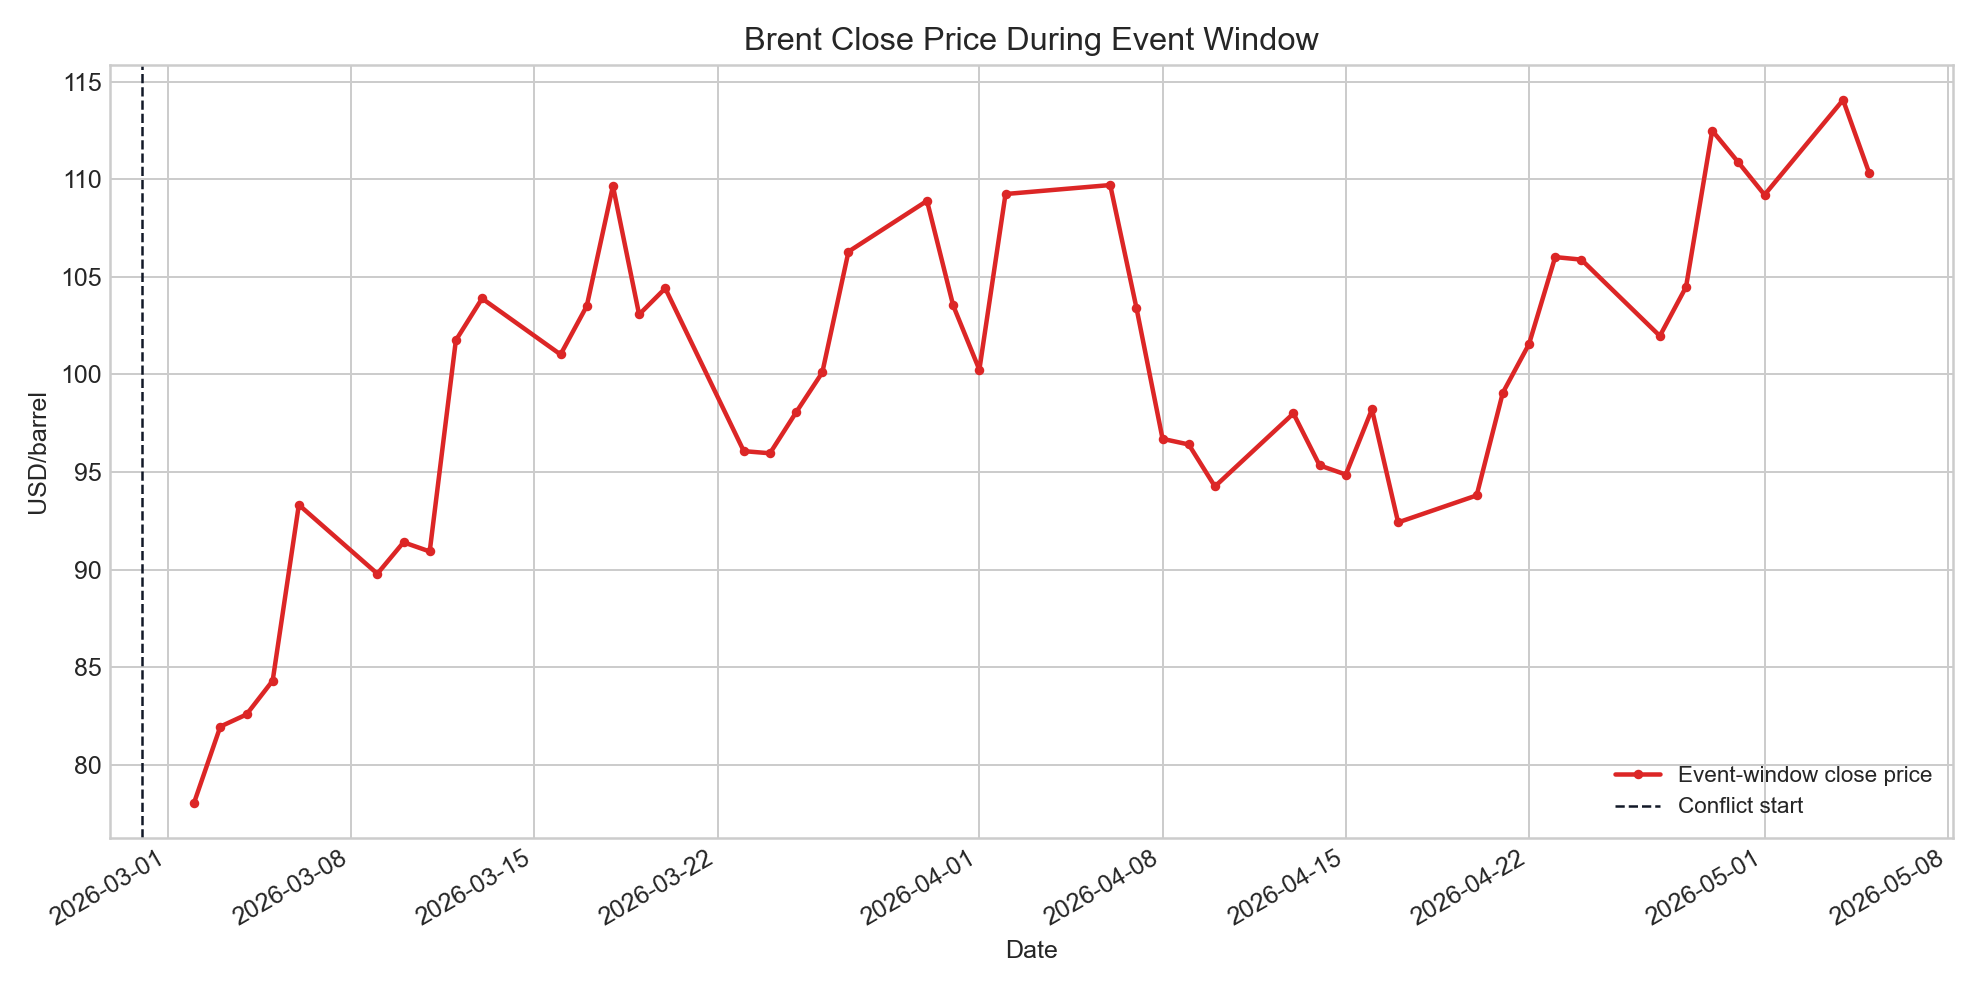
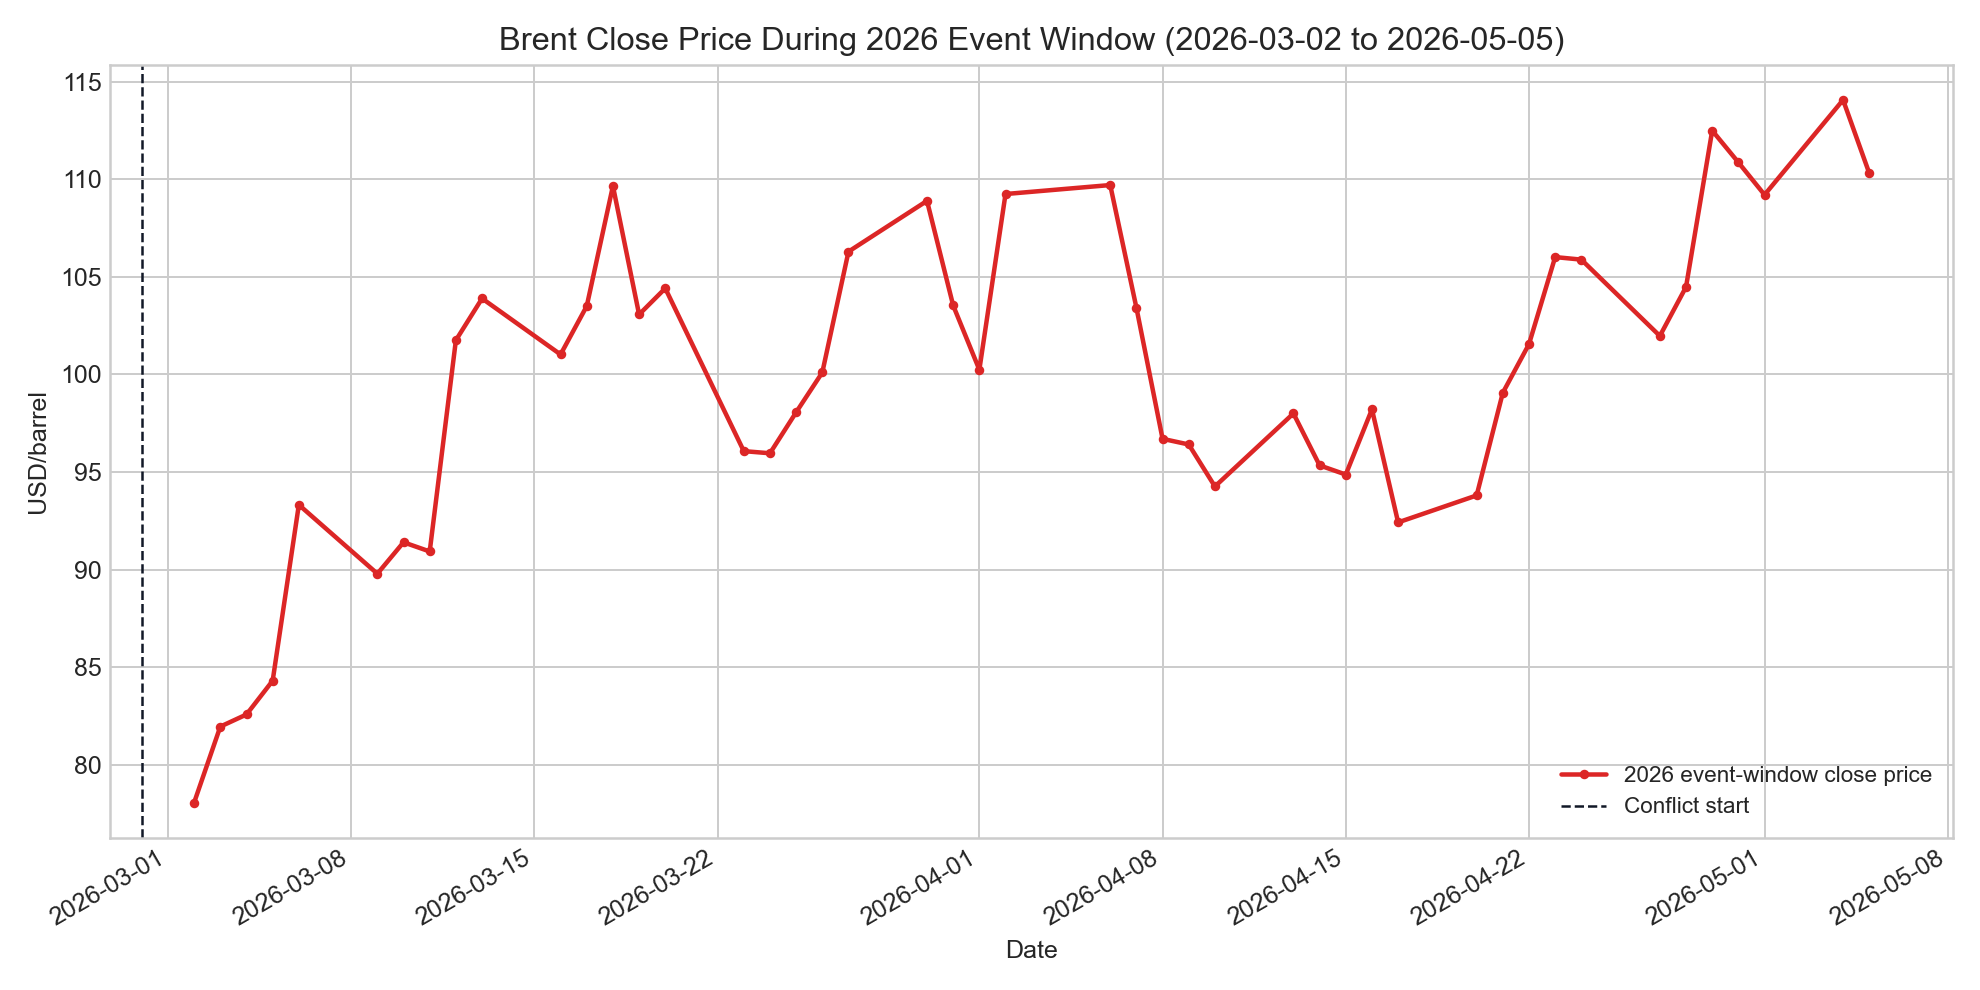
Review short-term model quality

Changed region(s): [[0.2465, 0.0303, 0.801, 0.0606], [0.801, 0.7576, 0.9242, 0.8182]]

diff --git a/src/pipeline/clean_data.py b/src/pipeline/clean_data.py
@@ -147,8 +147,10 @@ def configure_plot_style() -> None:
 def save_price_trend(df: pd.DataFrame, figures_dir: Path) -> Path:
     figure_path = figures_dir / "price_trend.png"
     fig, ax = plt.subplots(figsize=(11, 5.5))
+    start_year = df["trade_date"].min().year
+    end_year = df["trade_date"].max().year
     ax.plot(df["trade_date"], df["close_price"], color="#2563eb", linewidth=1.4, label="Close price")
-    ax.set_title("Brent Futures Close Price Trend")
+    ax.set_title(f"Brent Futures Close Price Trend ({start_year}-{end_year})")
     ax.set_xlabel("Date")
     ax.set_ylabel("USD/barrel")
     ax.legend()
@@ -168,10 +170,12 @@ def save_event_window_price(event_df: pd.DataFrame, event_window: EventWindow, f
         linewidth=1.8,
         marker="o",
         markersize=2.8,
-        label="Event-window close price",
+        label="2026 event-window close price",
     )
     ax.axvline(event_window.start, color="#111827", linestyle="--", linewidth=1.0, label="Conflict start")
-    ax.set_title("Brent Close Price During Event Window")
+    event_start = event_df["trade_date"].min().date()
+    event_end = event_df["trade_date"].max().date()
+    ax.set_title(f"Brent Close Price During 2026 Event Window ({event_start} to {event_end})")
     ax.set_xlabel("Date")
     ax.set_ylabel("USD/barrel")
     ax.legend()
@@ -185,16 +189,18 @@ def save_event_window_price(event_df: pd.DataFrame, event_window: EventWindow, f
 def save_return_volatility(df: pd.DataFrame, figures_dir: Path) -> Path:
     figure_path = figures_dir / "return_volatility.png"
     fig, axes = plt.subplots(2, 1, figsize=(11, 7.5), sharex=True)
+    start_year = df["trade_date"].min().year
+    end_year = df["trade_date"].max().year
 
     axes[0].plot(df["trade_date"], df["return_pct"] * 100, color="#059669", linewidth=1.0)
     axes[0].axhline(0, color="#111827", linewidth=0.8)
-    axes[0].set_title("Daily Return")
+    axes[0].set_title(f"Daily Return ({start_year}-{end_year})")
     axes[0].set_ylabel("Return (%)")
 
     axes[1].plot(df["trade_date"], df["volatility_7d"], color="#f97316", linewidth=1.2, label="7-day")
     axes[1].plot(df["trade_date"], df["volatility_14d"], color="#7c3aed", linewidth=1.2, label="14-day")
     axes[1].plot(df["trade_date"], df["volatility_30d"], color="#0f766e", linewidth=1.2, label="30-day")
-    axes[1].set_title("Rolling Log-return Volatility")
+    axes[1].set_title(f"Rolling Log-return Volatility ({start_year}-{end_year})")
     axes[1].set_xlabel("Date")
     axes[1].set_ylabel("Std. dev.")
     axes[1].legend()

diff --git a/output/reports/短期模型质量复盘与提升方向.md b/output/reports/短期模型质量复盘与提升方向.md
@@ -1,0 +1,81 @@
+# 短期模型质量复盘与提升方向
+
+## 结论
+
+当前短期动态模型已经达到“可用于论文主体分析”的水平：它不是单纯追求曲线贴合，而是把供应中断、SPR 释放、绕道能力、需求弹性、恐慌溢价、库存缓冲等机制放进了同一个可解释框架中。
+
+但它还没有达到“非常优秀”的终态。主要短板在后期再定价和低价回落阶段：模型对 2026 年 4 月中后期之后的价格回落解释不足，容易把价格维持在偏高平台。
+
+## 参考优秀数学建模作品的质量标准
+
+结合公开竞赛章程、评阅要点和 MCM/ICM Outstanding 论文特征，一个质量合格甚至优秀的模型通常不只是“拟合曲线好看”，而是要同时满足以下要求：
+
+| 评价维度 | 合格要求 | 优秀要求 | 对本项目的含义 |
+|---|---|---|---|
+| 问题针对性 | 模型直接回答赛题问题 | 模型结构和赛题机制高度绑定 | 不能只做时间序列预测，要解释“封锁如何影响油价” |
+| 假设合理性 | 假设不违背题面和常识 | 每个关键假设都能解释其经济含义 | 供应中断、SPR、绕道、需求弹性必须有合理范围 |
+| 数据处理 | 数据来源清楚、处理可复现 | 异常、窗口、口径都有解释 | 附件数据已清洗，冲突窗口与全历史数据已区分 |
+| 模型解释力 | 能给出主要结果 | 能解释为什么出现峰值、平台、回落 | 当前对峰值和平台解释较好，对回落解释偏弱 |
+| 数值效果 | 有 RMSE、MAE 等误差指标 | 有分段误差、峰值误差、稳健性比较 | 阶段 4 已具备多目标与分段误差 |
+| 稳健性 | 参数变化后结论不崩 | 多候选、多情景、敏感性分析支撑结论 | 阶段 5、6 还需要继续补强 |
+| 可复现性 | 能复现结果图表 | 数据、代码、图表、报告一键串联 | 当前项目骨架已经具备可复现基础 |
+| 论文表达 | 结构完整、图表清楚 | 摘要、模型、结果、检验形成闭环 | 后续需要把代码结果转成论文语言 |
+
+## 当前拟合效果判断
+
+阶段 4 综合最优模型的核心结果如下：
+
+| 指标 | 当前结果 | 判断 |
+|---|---:|---|
+| 全窗口 RMSE | 7.05 | 可接受，能支撑短期动态解释 |
+| 全窗口 MAE | 5.65 | 可接受，但仍有提升空间 |
+| 峰值误差 | -4.96 | 峰值略低估，但没有严重偏离 |
+| 末日误差 | -1.24 | 末端价格贴合较好 |
+| 高价平台 RMSE | 3.20 | 较好，说明平台阶段解释能力强 |
+| 后期再定价 RMSE | 9.18 | 偏弱，是主要改进点 |
+| 低价回落 RMSE | 9.15 | 偏弱，说明回落机制还不够完整 |
+
+所以一句话判断：模型整体是合格偏好的，尤其适合解释“短期冲击后为什么进入高价平台”；但如果要冲更高质量，需要重点改进“市场预期修复后价格为什么回落”。
+
+## 为什么不能只看 RMSE
+
+本题不是普通预测题，而是机制解释题。单纯把 RMSE 压低，可能会得到一条看起来更贴近的曲线，但牺牲了峰值、平台和经济解释。
+
+阶段 4 已经保留了三类候选：
+
+| 候选类型 | 优点 | 缺点 | 用途 |
+|---|---|---|---|
+| 综合最优 | 整体、峰值、平台、末端比较均衡 | 后期回落仍偏弱 | 作为主模型 |
+| RMSE 最优 | 全窗口误差最低 | 峰值和末端明显低估 | 用作对照模型 |
+| 平台解释最优 | 对高价平台解释最好 | 整体误差偏大 | 用作机制讨论 |
+
+这个设计比只拿一个最小 RMSE 模型更像竞赛论文里的优秀做法，因为它能主动说明“我们如何权衡拟合和解释”。
+
+## 短期模型还能怎么提高
+
+优先级最高的是把模型从“一个统一动态过程”升级为“分阶段动态过程”：
+
+| 改进方向 | 具体做法 | 预期提升 |
+|---|---|---|
+| 分阶段机制 | 划分前期冲击、中期平台、后期再定价 | 降低后期和低价回落误差 |
+| 预期修复因子 | 在 35 天后加入风险溢价衰减加速项 | 解释 4 月中后期价格回落 |
+| 不确定性溢价动态化 | 让 uncertainty_premium 不再长期维持高位 | 减少模型后期偏高 |
+| 分段目标函数 | 对后期再定价和低价回落提高权重 | 提高模型对真实回落段的适应性 |
+| 参数稳健性 | 对关键参数做扰动和置信区间 | 增强论文可信度 |
+| 消融实验 | 分别去掉 SPR、绕道、恐慌、库存模块 | 证明每个机制不是装饰项 |
+| 多情景预测 | 乐观、中性、悲观三种封锁持续路径 | 支撑阶段 5 预测任务 |
+
+## 后续建议
+
+阶段 5 不建议直接开始画未来预测曲线。更稳的路线是先把阶段 4 的短期模型升级成“分阶段版本”，至少解决两个问题：
+
+1. 高价平台为什么能维持；
+2. 后期市场预期修复后，价格为什么会从高位回落。
+
+完成这一步后，再进入三情景预测，模型会更像一篇完整数学建模论文，而不是一个只拟合附件数据的程序。
+
+## 参考来源
+
+- [全国大学生数学建模竞赛章程](https://math.hpu.edu.cn/info/1080/2146.htm)：强调论文应包括模型假设、建立和求解、计算实现、结果分析检验和模型改进，并以假设合理性、建模创造性、结果正确性和文字表达清晰度为主要标准。
+- [2021 高教社杯全国大学生数学建模竞赛评阅要点](https://aimg8.dlssyht.cn/u/2179378/ueditor/file/1090/2179378/1663049277111493.pdf)：强调针对具体问题建立模型、得到真实有效结果，不鼓励方法堆积和套路化表面文章，并建议验证程序和结果。
+- [COMAP 2025 MCM/ICM Outstanding Papers](https://www.comap.com/blog/item/2025-mcm-icm-results)：Outstanding 论文不仅要有技术建模和分析，也要有结构良好的报告表达。

diff --git a/paper/figures_mapping.md b/paper/figures_mapping.md
@@ -4,6 +4,8 @@
 
 当前 `figures/` 目录中实际已有 5 张图，对应图 1 至图 5。图 6 至图 8 是后续阶段的计划图，只有完成阶段 5 情景预测和阶段 6 敏感性分析后才会生成。
 
+需要注意：图 1 和图 3 使用 2017-2026 全历史数据；图 2、图 4、图 5 聚焦 2026 冲突窗口，因此横轴只显示 2026 年附近的日期。
+
 ## 当前生成情况
 
 | 状态 | 数量 | 图号 |
@@ -13,16 +15,16 @@
 
 ## 图表清单
 
-| 图号 | 图表文件 | 对应论文位置 | 支撑结论 | 数据或结果来源 | 状态 |
-|---|---|---|---|---|---|
-| 图1 | `figures/price_trend.png` | 数据说明 | 布伦特油价长期走势提供历史背景 | `data/processed/布伦特原油期货主力合约价格数据_清洗后.csv` | 已生成 |
-| 图2 | `figures/event_window_price.png` | 数据说明 | 冲突窗口价格出现峰值和平台区间 | `data/processed/布伦特原油期货主力合约价格数据_冲突窗口.csv` | 已生成 |
-| 图3 | `figures/return_volatility.png` | 数据说明 | 冲突窗口前后可结合收益率和波动率观察市场冲击 | `data/processed/布伦特原油期货主力合约价格数据_清洗后.csv` | 已生成 |
-| 图4 | `figures/baseline_vs_actual.png` | 模型一结果 | 传统供需模型高估现实价格 | `output/baseline/传统供需基准模型结果.csv` | 已生成 |
-| 图5 | `figures/fitted_vs_actual.png` | 模型二结果 | 校准后的动态模型能解释 110-120 美元平台 | `output/calibration/动态模型校准后路径.csv` | 已生成 |
-| 图6 | `figures/scenario_price_paths.png` | 模型三结果 | 三情景下长期均衡价格不同 | `output/scenarios/三情景预测结果.csv` | 待生成 |
-| 图7 | `figures/inventory_depletion_risk.png` | 模型三结果 | 库存耗尽可能触发二次跳涨风险 | `output/scenarios/三情景预测结果.csv` | 待生成 |
-| 图8 | `figures/sensitivity_tornado.png` | 敏感性分析 | SPR、需求弹性等因素影响最大 | `output/sensitivity/敏感性分析结果.csv` | 待生成 |
+| 图号 | 图表文件 | 时间范围 | 对应论文位置 | 支撑结论 | 数据或结果来源 | 状态 |
+|---|---|---|---|---|---|---|
+| 图1 | `figures/price_trend.png` | 2017-09-01 至 2026-05-05 | 数据说明 | 布伦特油价长期走势提供历史背景 | `data/processed/布伦特原油期货主力合约价格数据_清洗后.csv` | 已生成 |
+| 图2 | `figures/event_window_price.png` | 2026-03-02 至 2026-05-05 | 数据说明 | 冲突窗口价格出现峰值和平台区间 | `data/processed/布伦特原油期货主力合约价格数据_冲突窗口.csv` | 已生成 |
+| 图3 | `figures/return_volatility.png` | 2017-09-01 至 2026-05-05 | 数据说明 | 冲突窗口前后可结合收益率和波动率观察市场冲击 | `data/processed/布伦特原油期货主力合约价格数据_清洗后.csv` | 已生成 |
+| 图4 | `figures/baseline_vs_actual.png` | 2026-03-02 至 2026-05-05 | 模型一结果 | 传统供需模型高估现实价格 | `output/baseline/传统供需基准模型结果.csv` | 已生成 |
+| 图5 | `figures/fitted_vs_actual.png` | 2026-03-02 至 2026-05-05 | 模型二结果 | 校准后的动态模型能解释 110-120 美元平台 | `output/calibration/动态模型校准后路径.csv` | 已生成 |
+| 图6 | `figures/scenario_price_paths.png` | 阶段 5 生成后确定 | 模型三结果 | 三情景下长期均衡价格不同 | `output/scenarios/三情景预测结果.csv` | 待生成 |
+| 图7 | `figures/inventory_depletion_risk.png` | 阶段 5 生成后确定 | 模型三结果 | 库存耗尽可能触发二次跳涨风险 | `output/scenarios/三情景预测结果.csv` | 待生成 |
+| 图8 | `figures/sensitivity_tornado.png` | 阶段 6 生成后确定 | 敏感性分析 | SPR、需求弹性等因素影响最大 | `output/sensitivity/敏感性分析结果.csv` | 待生成 |
 
 ## 待生成图表来源
 

diff --git a/README.md b/README.md
@@ -187,6 +187,7 @@ python3 -m src.calibration.calibrate_dynamic_model
 - [output/reports/stage2_baseline_model_report.md](output/reports/stage2_baseline_model_report.md)
 - [output/reports/stage3_dynamic_model_report.md](output/reports/stage3_dynamic_model_report.md)
 - [output/reports/stage4_calibration_report.md](output/reports/stage4_calibration_report.md)
+- [output/reports/短期模型质量复盘与提升方向.md](output/reports/短期模型质量复盘与提升方向.md)
 - [data/metadata/stage1_data_dictionary.md](data/metadata/stage1_data_dictionary.md)
 - [docs/10_阶段2到阶段3交接说明.md](docs/10_阶段2到阶段3交接说明.md)
 - [paper/figures_mapping.md](paper/figures_mapping.md)

diff --git a/docs/00_文档导航.md b/docs/00_文档导航.md
@@ -53,6 +53,7 @@ flowchart LR
 | 阶段 2 | 已完成 | 传统供需模型结果、对照图、阶段报告 |
 | 阶段 3 | 已完成 | 动态递推结果、拟合图、误差指标、阶段报告 |
 | 阶段 4 | 已完成 | 多目标校准、最优参数、候选前 10、分段误差 |
+| 阶段 4.5 | 已完成 | 短期模型质量复盘、公开评阅标准对照、提质方向 |
 | 阶段 5 | 下一步 | 等待 60-180 天三情景预测 |
 
 ## 推荐工作方式

diff --git a/docs/07_交付物清单.md b/docs/07_交付物清单.md
@@ -42,6 +42,7 @@
 | `output/scenarios/三情景预测结果.csv` | 60-180 天情景预测结果 |
 | `output/sensitivity/敏感性分析结果.csv` | 敏感性分析结果 |
 | `output/reports/*.md` | 每阶段验收报告和结论摘要 |
+| `output/reports/短期模型质量复盘与提升方向.md` | 阶段 4 后的模型质量判断和提质路线 |
 
 ### 4. 论文图表
 
